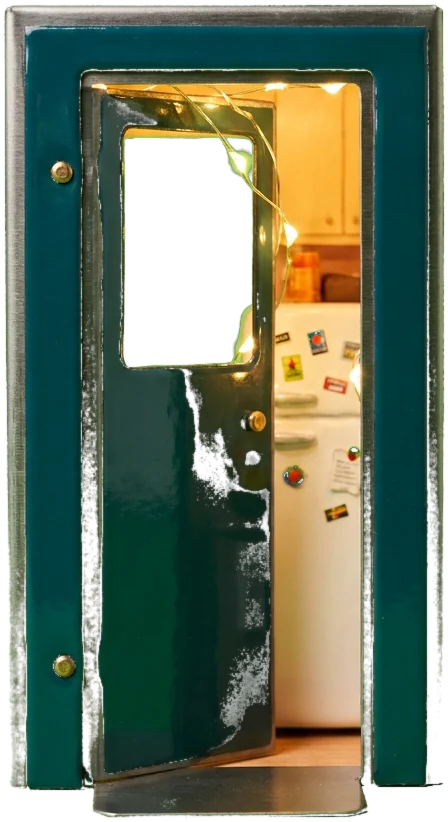
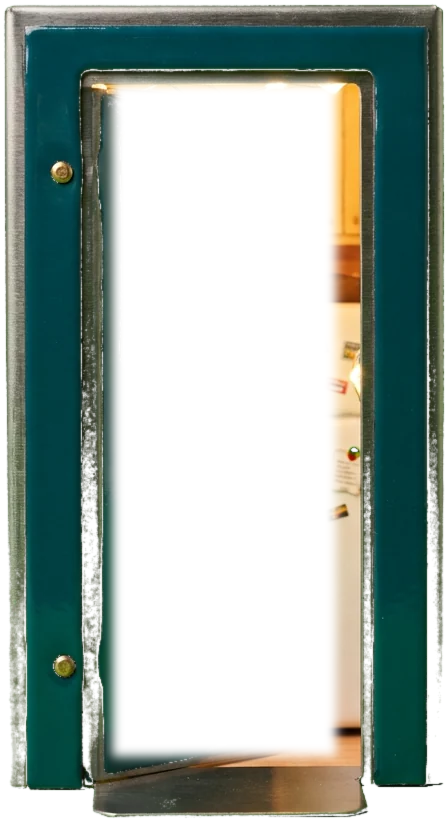
GET THE SHOT on his iPhone: the bezel hugs the glass instead of spanning the body, the brief plate measures itself so the LCD never spills onto the viewfinder, the print of the shot you are after is the real room painted from the camera that makes the brief (grid, eye, a pink line round them), spawn

diff --git a/play/game.js b/play/game.js
@@ -50,13 +50,13 @@ const ROOMS = {
       {k: 'f_bar',     x: 3.5,  z: 4.2, h: 2.0},
       {k: 'f_stool',   x: 3.3,  z: 3.95, h: .74},
       {k: 'f_stool',   x: 4.15, z: 3.95, h: .74},
-      {k: 'f_wedge',   x: -2.5, z: 4.0, h: .58},
-      {k: 'f_table',   x: 2.7,  z: 3.3, h: 1.12},
-      {k: 'f_arch',    x: -1.7, z: 2.2, h: 2.9, opening: [.2, .08, .8, .9]},
+      {k: 'f_wedge',   x: -3.0, z: 4.0, h: .58},
+      {k: 'f_table',   x: -4.2, z: 3.6, h: 1.12},
+      {k: 'f_arch',    x: -2.6, z: 2.2, h: 2.9, opening: [.2, .08, .8, .9]},
     ],
-    spots: {decks: {x: .25, z: 5.35}, floor: {x: .5, z: 4.3}, bar: {x: 2.4, z: 4.1}, arch: {x: -1.5, z: 3.4}, left: {x: -2.0, z: 4.5}},
+    spots: {decks: {x: .25, z: 5.35}, floor: {x: .5, z: 4.3}, bar: {x: 2.4, z: 4.1}, arch: {x: -2.6, z: 3.4}, left: {x: -1.7, z: 4.5}},
     // the rest of the roster hanging out in the room, cutouts like Mars, each with its own idle clock
-    extras: [{x: 2.3, z: 5.9, face: 1, h: 1.72, pair: 1}, {x: 3.1, z: 5.9, face: -1, h: 1.78, pair: 1}, {x: -2.2, z: 6.3, face: 1, h: 1.76}, {x: -1.0, z: 7.0, face: 1, h: 1.86}, {x: 1.4, z: 7.2, face: -1, h: 1.74}],
+    extras: [{x: 1.4, z: 6.0, face: 1, h: 1.72, pair: 1}, {x: 2.1, z: 6.0, face: -1, h: 1.78, pair: 1}, {x: -1.9, z: 6.3, face: 1, h: 1.76}, {x: -1.0, z: 7.0, face: 1, h: 1.86}, {x: -.2, z: 7.1, face: -1, h: 1.74}],
     lights: [{x: -3.0, y: 2.55, z: 5.55, col: '255,121,198', to: {x: -.6, z: 4.6}}, {x: -2.75, y: 2.55, z: 5.55, col: '255,190,90', to: {x: 1.2, z: 4.4}}],
     cam: {x: 0, y: 1.45, z: 0, zoom: 1},
   },
@@ -71,14 +71,14 @@ const ROOMS = {
       {k: 'c_amps',   x: -2.6, z: 5.9, h: 1.9},
       {k: 'c_lamp',   x: 3.1,  z: 5.6, h: 2.3},
       {k: 'c_couch',  x: 2.2,  z: 4.6, h: 1.3},
-      {k: 'c_keg',    x: -3.3, z: 4.0, h: .95},
-      {k: 'c_cups',   x: -4.0, z: 4.5, h: .82},
+      {k: 'c_keg',    x: -3.0, z: 4.1, h: .95},
+      {k: 'c_cups',   x: -1.6, z: 4.8, h: .82},
       {k: 'c_merch',  x: 3.2,  z: 3.5, h: 1.25},
-      {k: 'c_fan',    x: -3.0, z: 3.6, h: 1.1},
-      {k: 'c_door',   x: -2.4, z: 2.2, h: 2.9, opening: [.25, .1, .75, .92]},
+      {k: 'c_fan',    x: -3.6, z: 3.5, h: 1.1},
+      {k: 'c_door',   x: -3.6, z: 2.2, h: 2.9, opening: [.25, .1, .75, .92]},
     ],
-    spots: {decks: {x: -.3, z: 5.5}, floor: {x: .5, z: 4.3}, bar: {x: -2.5, z: 4.2}, arch: {x: -2.1, z: 3.4}, left: {x: -1.8, z: 4.7}},
-    extras: [{x: -3.1, z: 5.4, face: 1, h: 1.74, pair: 1}, {x: -2.3, z: 5.4, face: -1, h: 1.78, pair: 1}, {x: 3.3, z: 6.2, face: -1, h: 1.72}, {x: 1.5, z: 6.9, face: -1, h: 1.76}, {x: -1.2, z: 7.1, face: 1, h: 1.7}],
+    spots: {decks: {x: -.3, z: 5.5}, floor: {x: .5, z: 4.3}, bar: {x: -2.3, z: 4.2}, arch: {x: -3.6, z: 3.4}, left: {x: -1.8, z: 4.7}},
+    extras: [{x: -3.3, z: 5.6, face: 1, h: 1.74, pair: 1}, {x: -2.5, z: 5.6, face: -1, h: 1.78, pair: 1}, {x: 1.6, z: 6.4, face: -1, h: 1.72}, {x: .9, z: 7.0, face: -1, h: 1.76}, {x: -1.6, z: 7.1, face: 1, h: 1.7}],
     lights: [{x: -2.5, y: 2.6, z: 5.85, col: '150,255,120', to: {x: -.4, z: 5.0}}, {x: 3.0, y: 2.5, z: 5.55, col: '255,190,90', to: {x: 1.5, z: 4.4}}],
     cam: {x: 0, y: 1.45, z: 0, zoom: 1},
   },
@@ -91,19 +91,18 @@ const ROOMS = {
     flats: [
       {k: 'l_pole',     x: -2.6, z: 7.2, h: 4.2},
       {k: 'l_truck',    x: 3.4,  z: 6.8, h: 2.3},
-      {k: 'l_fence',    x: -3.6, z: 5.6, h: 2.3},
+      {k: 'l_fence',    x: -3.3, z: 3.4, h: 2.3, see: true, opening: [.08, .08, .92, .96]},
       {k: 'l_car',      x: .4,   z: 5.3, h: 1.5},
-      {k: 'l_dumpster', x: -2.2, z: 4.2, h: 1.4},
-      {k: 'l_cone',     x: -2.7, z: 3.5, h: .55},
-      {k: 'l_cone',     x: -3.4, z: 3.9, h: .55},
-      {k: 'l_cone',     x: -3.9, z: 3.2, h: .55},
-      {k: 'l_chair',    x: 3.9,  z: 4.6, h: .86},
-      {k: 'l_chair',    x: 4.8,  z: 4.3, h: .86},
-      {k: 'l_cooler',   x: 4.35, z: 4.95, h: .5},
-      {k: 'l_cart',     x: 4.2,  z: 3.0, h: 1.3},
+      {k: 'l_dumpster', x: -2.3, z: 4.3, h: 1.4},
+      {k: 'l_cone',     x: 3.3,  z: 3.3, h: .55},
+      {k: 'l_cone',     x: 5.1,  z: 3.2, h: .55},
+      {k: 'l_chair',    x: 3.8,  z: 4.5, h: .86},
+      {k: 'l_chair',    x: 4.5,  z: 5.0, h: .86},
+      {k: 'l_cooler',   x: 4.15, z: 5.3, h: .5},
+      {k: 'l_cart',     x: 6.0,  z: 3.0, h: 1.3},
     ],
-    spots: {decks: {x: 1.6, z: 4.5}, floor: {x: -.7, z: 4.4}, bar: {x: 2.4, z: 5.5}, arch: {x: -3.0, z: 4.6}, left: {x: -1.4, z: 4.8}},
-    extras: [{x: -3.3, z: 5.1, face: 1, h: 1.78, pair: 1}, {x: -2.5, z: 5.1, face: -1, h: 1.74, pair: 1}, {x: 3.7, z: 5.9, face: -1, h: 1.8}, {x: -0.5, z: 7.0, face: 1, h: 1.76}, {x: 1.9, z: 7.4, face: -1, h: 1.86}],
+    spots: {decks: {x: 1.6, z: 4.5}, floor: {x: -.7, z: 4.4}, bar: {x: 2.4, z: 5.5}, arch: {x: -3.3, z: 5.0}, left: {x: -1.0, z: 5.0}},
+    extras: [{x: -1.6, z: 6.3, face: 1, h: 1.78, pair: 1}, {x: -.8, z: 6.3, face: -1, h: 1.74, pair: 1}, {x: 3.2, z: 5.9, face: -1, h: 1.8}, {x: -2.6, z: 7.0, face: 1, h: 1.76}, {x: .6, z: 7.5, face: -1, h: 1.86}],
     lights: [{x: -2.55, y: 4.0, z: 7.15, col: '255,150,40', to: {x: -1.2, z: 5.0}}, {x: 2.6, y: 1.9, z: 6.5, col: '255,210,120', to: {x: 2.2, z: 5.2}}],
     cam: {x: 0, y: 1.45, z: 0, zoom: 1},
   },
@@ -183,11 +182,12 @@ function resize() {
   const door = G.state === 'title' || G.state === 'done';
   // in the shoot the print and the three lamps live UNDER the glass, so the bottom reserve holds them plus the dials; a short phone trims the print row
   const short = H < 700; document.documentElement.classList.toggle('short', short);
-  const top = sat + (inShot ? 66 : door ? 56 : 24), bottom = inShot ? sab + (short ? 300 : 346) : door ? 330 : 24;
+  const plate = $('.plate'); const ph = inShot && plate ? plate.offsetHeight : 0;
+  const top = inShot ? (ph || sat + 66) + 8 : door ? sat + 56 : sat + 24, bottom = inShot ? sab + (short ? 266 : H < 900 ? 288 : 318) : door ? 330 : 24;
   let fw = W - (inShot ? 12 : 24), fh = fw * 1.25; const maxH = H - top - bottom; if (fh > maxH) { fh = maxH; fw = fh / 1.25; } if (door && fh < 220) { fh = 220; fw = fh / 1.25; }
   G.frame = {x: (W - fw) / 2, y: inShot || door ? top : top + (maxH - fh) / 2, w: fw, h: fh};
   const vfb = $('#vfb'); if (vfb) vfb.hidden = !door;
-  document.documentElement.style.setProperty('--fb', (G.frame.y + G.frame.h) + 'px'); document.documentElement.style.setProperty('--ft', G.frame.y + 'px');
+  document.documentElement.style.setProperty('--fb', (G.frame.y + G.frame.h) + 'px'); document.documentElement.style.setProperty('--ft', G.frame.y + 'px'); document.documentElement.style.setProperty('--fl', G.frame.x + 'px'); document.documentElement.style.setProperty('--fw', G.frame.w + 'px');
 }
 addEventListener('resize', resize); resize();
 
@@ -221,6 +221,8 @@ function extraRect(ex, i, now) {
   const oc = G.crowd[i]; if (!oc) return null;
   // never between the camera and the subject: closer than them and lined up with them on screen
   if (ex.z < G.subj.z + .3 && Math.abs(ex.x - G.subj.x) < 1.6) return null;
+  // nobody stands behind a tall flat (a see-through one, like the fence, is fine)
+  if (ROOMS[G.room].flats.some(fl => !fl.hang && !fl.see && fl.h > .9 && fl.z < ex.z - .3 && Math.abs(fl.x - ex.x) < halfW(fl) + .25)) return null;
   if (ex.z < G.subj.z - .2) { const sp = proj(G.subj.x, 0, G.subj.z), ep = proj(ex.x, 0, ex.z); if (sp && ep && Math.abs(sp.x - ep.x) < G.frame.w * .4) return null; } const t = now / 1000; const pose = extraPose(ex, i, oc, t); const im = ART[oc + '_' + pose]; if (!im) return null;
   const w = ex.h * im.width / im.height; const p = proj(ex.x, Math.sin(t * 1.3) * .012, ex.z); if (!p) return null;
   const hpx = ex.h * p.s, wpx = w * p.s; return {x: p.x - wpx / 2, y: p.y - hpx, w: wpx, h: hpx, cx: p.x, cy: p.y - hpx / 2, d: p.d, im, face: ex.face * NAT[pose]};
@@ -247,30 +249,23 @@ function measure() {
 
 /* ---------- draw ---------- */
 let lastT = 0, SPARK = [];
-function draw(now) {
-  requestAnimationFrame(draw);
-  const dt = Math.min(.05, (now - lastT) / 1000 || 0); lastT = now; G.frames++;
-  if (now - G.lastQ > 1000) { G.fps = G.frames; G.frames = 0; G.lastQ = now; if (G.fps < 24 && G.quality > 0) G.quality--; }
-  if (!ARTREADY) return;
-  tick(dt);
-  const f = G.frame, room = ROOMS[G.room];
-  cx.save(); cx.fillStyle = '#07060a'; cx.fillRect(0, 0, W, H);
-  cx.beginPath(); cx.rect(f.x, f.y, f.w, f.h); cx.clip();
+/* the room, painted through whatever G.frame / G.cam / G.focusD say: the viewfinder, and the hint print from the answer camera */
+function paintRoom(c, f, room, now) {
   // the backdrop: a painted wall far back, mirrored copies either side so a truck never shows the edge
   const bd = ART[room.backdrop]; const bp = proj(0, 0, room.bz);
   if (bd && bp) {
     const bh = room.bh * bp.s, bw = bh * bd.width / bd.height, bx = bp.x - bw / 2, by = bp.y - bh;
-    cx.drawImage(bd, bx, by, bw, bh);
-    cx.save(); cx.translate(bx, 0); cx.scale(-1, 1); cx.drawImage(bd, 0, by, bw, bh); cx.restore();
-    cx.save(); cx.translate(bx + 2 * bw, 0); cx.scale(-1, 1); cx.drawImage(bd, 0, by, bw, bh); cx.restore();
+    c.drawImage(bd, bx, by, bw, bh);
+    c.save(); c.translate(bx, 0); c.scale(-1, 1); c.drawImage(bd, 0, by, bw, bh); c.restore();
+    c.save(); c.translate(bx + 2 * bw, 0); c.scale(-1, 1); c.drawImage(bd, 0, by, bw, bh); c.restore();
     // the mirror ball's dots drift over the back wall (the booth only)
-    if (room.ball) { cx.save(); cx.globalCompositeOperation = 'screen'; const t = now / 1000;
-    for (let i = 0; i < 30; i++) { const a = i * 2.399 + t * .22; const x = bp.x + Math.cos(a) * bw * .42 * (.3 + (i % 5) / 5), y = by + bh * (.2 + .45 * (.5 + .5 * Math.sin(a * 1.31 + i))); const k = Math.max(2, bp.s * .05); cx.fillStyle = `rgba(255,170,215,${.22 + .2 * Math.sin(t * 3 + i)})`; cx.fillRect(x, y, k, k); }
-    cx.restore(); }
+    if (room.ball) { c.save(); c.globalCompositeOperation = 'screen'; const t = now / 1000;
+    for (let i = 0; i < 30; i++) { const a = i * 2.399 + t * .22; const x = bp.x + Math.cos(a) * bw * .42 * (.3 + (i % 5) / 5), y = by + bh * (.2 + .45 * (.5 + .5 * Math.sin(a * 1.31 + i))); const k = Math.max(2, bp.s * .05); c.fillStyle = `rgba(255,170,215,${.22 + .2 * Math.sin(t * 3 + i)})`; c.fillRect(x, y, k, k); }
+    c.restore(); }
   }
   drawFloor(room);
   // haze between the wall and the room
-  cx.fillStyle = `rgba(${room.haze},${.10 + .04 * Math.sin(now / 1700)})`; cx.fillRect(f.x, f.y, f.w, f.h);
+  c.fillStyle = `rgba(${room.haze},${.10 + .04 * Math.sin(now / 1700)})`; c.fillRect(f.x, f.y, f.w, f.h);
   // everything standing in the room, far to near, with the subject slotted in by depth
   const sr = subjRect(); const items = room.flats.map(fl => ({fl, r: flatRect(fl)})).filter(i => i.r);
   if (sr) items.push({subj: true, r: sr});
@@ -279,22 +274,33 @@ function draw(now) {
   let hazeDone = false;
   items.forEach(it => {
     const r = it.r; if (r.x > f.x + f.w + 40 || r.x + r.w < f.x - 40 || r.y > f.y + f.h + 40) return;
-    if (!hazeDone && r.d < 4.6) { hazeDone = true; cx.fillStyle = `rgba(${room.haze},.045)`; cx.fillRect(f.x, f.y, f.w, f.h); }
+    if (!hazeDone && r.d < 4.6) { hazeDone = true; c.fillStyle = `rgba(${room.haze},.045)`; c.fillRect(f.x, f.y, f.w, f.h); }
     const b = blurFor(r.d), blurOn = HAS_FILTER && G.quality > 0 && b > .4;
     // the floor shadow at the foot
-    if (!(it.fl && it.fl.hang)) { const fy = r.y + r.h - 1; cx.save(); cx.translate(r.cx, fy); cx.scale(1, .22); const g = cx.createRadialGradient(0, 0, 0, 0, 0, r.w * .62); g.addColorStop(0, 'rgba(0,0,0,.4)'); g.addColorStop(1, 'rgba(0,0,0,0)'); cx.fillStyle = g; cx.beginPath(); cx.arc(0, 0, r.w * .62, 0, 7); cx.fill(); cx.restore(); }
-    cx.save();
-    if (blurOn) cx.filter = `blur(${b.toFixed(1)}px)`;
+    if (!(it.fl && it.fl.hang)) { const fy = r.y + r.h - 1; c.save(); c.translate(r.cx, fy); c.scale(1, .22); const g = c.createRadialGradient(0, 0, 0, 0, 0, r.w * .62); g.addColorStop(0, 'rgba(0,0,0,.4)'); g.addColorStop(1, 'rgba(0,0,0,0)'); c.fillStyle = g; c.beginPath(); c.arc(0, 0, r.w * .62, 0, 7); c.fill(); c.restore(); }
+    c.save();
+    if (blurOn) c.filter = `blur(${b.toFixed(1)}px)`;
     // the cut edge throws a soft shadow on whatever stands behind it
-    if (G.quality > 1) { cx.shadowColor = 'rgba(0,0,0,.55)'; cx.shadowBlur = 10 + 8 / Math.max(.5, r.d / 3); cx.shadowOffsetX = 5; cx.shadowOffsetY = 7; }
-    if (it.subj) { cx.translate(r.cx, r.y); cx.scale(it.face || (G.subj.face * NAT[G.subj.pose]), 1); cx.drawImage(r.im, -r.w / 2, 0, r.w, r.h); }
-    else cx.drawImage(r.im, r.x, r.y, r.w, r.h);
-    cx.restore();
+    if (G.quality > 1) { c.shadowColor = 'rgba(0,0,0,.55)'; c.shadowBlur = 10 + 8 / Math.max(.5, r.d / 3); c.shadowOffsetX = 5; c.shadowOffsetY = 7; }
+    if (it.subj) { c.translate(r.cx, r.y); c.scale(it.face || (G.subj.face * NAT[G.subj.pose]), 1); c.drawImage(r.im, -r.w / 2, 0, r.w, r.h); }
+    else c.drawImage(r.im, r.x, r.y, r.w, r.h);
+    c.restore();
   });
   // the gels: two cones of colored light from the light tree, screened over everything
-  room.lights.forEach(L => { const a = proj(L.x, L.y, L.z), b = proj(L.to.x, 0, L.to.z); if (!a || !b) return; cx.save(); cx.globalCompositeOperation = 'screen'; const g = cx.createLinearGradient(a.x, a.y, b.x, b.y); g.addColorStop(0, `rgba(${L.col},.30)`); g.addColorStop(1, `rgba(${L.col},0)`); cx.fillStyle = g; const spread = 1.1 * b.s; cx.beginPath(); cx.moveTo(a.x, a.y); cx.lineTo(b.x - spread, b.y + 6); cx.lineTo(b.x + spread, b.y + 6); cx.closePath(); cx.fill(); cx.restore(); });
+  room.lights.forEach(L => { const a = proj(L.x, L.y, L.z), b = proj(L.to.x, 0, L.to.z); if (!a || !b) return; c.save(); c.globalCompositeOperation = 'screen'; const g = c.createLinearGradient(a.x, a.y, b.x, b.y); g.addColorStop(0, `rgba(${L.col},.30)`); g.addColorStop(1, `rgba(${L.col},0)`); c.fillStyle = g; const spread = 1.1 * b.s; c.beginPath(); c.moveTo(a.x, a.y); c.lineTo(b.x - spread, b.y + 6); c.lineTo(b.x + spread, b.y + 6); c.closePath(); c.fill(); c.restore(); });
   // the vignette
-  const vg = cx.createRadialGradient(f.x + f.w / 2, f.y + f.h / 2, f.h * .35, f.x + f.w / 2, f.y + f.h / 2, f.h * .9); vg.addColorStop(0, 'rgba(0,0,0,0)'); vg.addColorStop(1, 'rgba(0,0,0,.42)'); cx.fillStyle = vg; cx.fillRect(f.x, f.y, f.w, f.h);
+  const vg = c.createRadialGradient(f.x + f.w / 2, f.y + f.h / 2, f.h * .35, f.x + f.w / 2, f.y + f.h / 2, f.h * .9); vg.addColorStop(0, 'rgba(0,0,0,0)'); vg.addColorStop(1, 'rgba(0,0,0,.42)'); c.fillStyle = vg; c.fillRect(f.x, f.y, f.w, f.h);
+}
+function draw(now) {
+  requestAnimationFrame(draw);
+  const dt = Math.min(.05, (now - lastT) / 1000 || 0); lastT = now; G.frames++;
+  if (now - G.lastQ > 1000) { G.fps = G.frames; G.frames = 0; G.lastQ = now; if (G.fps < 24 && G.quality > 0) G.quality--; }
+  if (!ARTREADY) return;
+  tick(dt);
+  const f = G.frame, room = ROOMS[G.room];
+  cx.fillStyle = '#07060a'; cx.fillRect(0, 0, W, H);
+  cx.save(); cx.beginPath(); cx.rect(f.x, f.y, f.w, f.h); cx.clip();
+  paintRoom(cx, f, room, now);
   // the flash sparkle when the shutter went
   SPARK = SPARK.filter(s => (s.t += dt) < s.life); SPARK.forEach(s => { cx.fillStyle = `rgba(255,255,255,${1 - s.t / s.life})`; const k = 2 + 6 * s.t / s.life; cx.fillRect(s.x - k / 2, s.y - k / 2, k, k); });
   cx.restore();
@@ -351,7 +357,7 @@ cv.addEventListener('pointerdown', e => { if (G.state !== 'shoot') return; ptr =
 cv.addEventListener('pointermove', e => {
   if (!ptr || G.state !== 'shoot') return; const dx = e.clientX - ptr.x, dy = e.clientY - ptr.y; if (Math.hypot(dx, dy) > 6) moved = true;
   const F = focal(); const d = Math.max(1.2, G.subj.z - G.cam.z); // a drag moves the world under the thumb at the subject's depth
-  G.want.x = clamp(ptr.cx - dx * d / F, -2.6, 2.6); G.want.y = clamp(ptr.cy + dy * d / F, .3, 3.0);
+  G.want.x = clamp(ptr.cx - dx * d / F, -4.2, 4.2); G.want.y = clamp(ptr.cy + dy * d / F, .3, 3.0);
 });
 const ptrEnd = e => { if (ptr && !moved && G.state === 'shoot') focusAt(e.clientX, e.clientY); ptr = null; }; cv.addEventListener('pointerup', ptrEnd); cv.addEventListener('pointercancel', () => { ptr = null; });
 function focusAt(x, y) {
@@ -409,12 +415,25 @@ function develop(shot, passed) {
 }
 
 /* ---------- briefs ---------- */
+// slide the subject sideways until no flat nearer than them covers them (the doorway flat is the one exception, for the doorway brief)
+function halfW(fl) { const im = ART[fl.k]; return im ? fl.h * im.width / im.height / 2 : .5; }
+function clearSpawn(room, k) {
+  // the doorway flat (doorway brief) and the decks (the DJ stands behind them on purpose) are the two exceptions
+  const S = G.subj, br = BRIEFS[k]; const near = room.flats.filter(fl => !fl.hang && !fl.see && fl.z < S.z - .05 && !(k === 'arch' && fl.k === room.roles.frame) && !(br && br.spot === 'decks' && fl.k === room.roles.decks));
+  for (let pass = 0; pass < 3; pass++) {
+    const hit = near.find(fl => Math.abs(fl.x - S.x) < halfW(fl) + .5); if (!hit) return;
+    const right = hit.x + halfW(hit) + .5, left = hit.x - halfW(hit) - .5;
+    S.x = (Math.abs(right - S.x) <= Math.abs(left - S.x) ? right : left);
+    S.x = clamp(S.x, -4.2, 4.2);
+  }
+}
 function setBrief(k) {
   G.brief = k; G.briefT = performance.now(); const br = BRIEFS[k], room = ROOMS[G.room], r = G.rnd;
   // a different subject each brief: the roster shuffled into a queue, the other seven fill the room
   if (!G.castQ.length) { G.castQ = CAST.slice(); for (let i = G.castQ.length - 1; i > 0; i--) { const j = Math.floor(r() * (i + 1)); [G.castQ[i], G.castQ[j]] = [G.castQ[j], G.castQ[i]]; } }
   const oc = G.castQ.shift(); G.crowd = CAST.filter(x => x !== oc);
   const sp = room.spots[br.spot]; Object.assign(G.subj, {oc, x: sp.x + (r() - .5) * .3, z: sp.z, face: br.face || (r() < .5 ? 1 : -1), pose: 'idle', jumpT: -1.2, jump: 0, t: 0});
+  clearSpawn(room, k);
   // the camera opens a step to the side of them, on the side away from the doorway flat so the first look is clear
   // open on the clear side: every room's shoot-through flat stands on the left, so the camera starts to the right of them unless they are already far right
   const side = G.subj.x > 2 ? -1 : 1;
@@ -437,23 +456,35 @@ function drawAvatar(oc) { // the subject's head in the brief chip
   const c = $('#b-av'), o = c.getContext('2d'), im = ART[oc + '_idle']; o.clearRect(0, 0, 88, 88); if (!im) return; const hx = HEADX[oc + '_idle'] || .5;
   const side = im.height * .3; const sx = clamp(im.width * hx - side / 2, 0, Math.max(0, im.width - side)); o.fillStyle = '#1a1921'; o.fillRect(0, 0, 88, 88); o.drawImage(im, sx, 0, side, side, 0, 0, 88, 88);
 }
+// where the camera would stand to make the brief: the print is the room seen from there
+function answerCam(br) {
+  const S = G.subj, room = ROOMS[G.room], h = br.hint, f = G.frame;
+  const pos = br.face === 0 ? (S.face > 0 ? 'l' : 'r') : h.pos;
+  const cam = {x: 0, y: h.low ? .55 : 1.45, z: (h.sil === 'wide' || G.brief === 'arch') ? -1.2 : 0, zoom: h.long ? 2.4 : h.ballTop ? .95 : ({wide: .85, mid: 1.25, tight: 2.3}[h.sil] || 1.2)};
+  const F = f.h * 1.1 * cam.zoom, d = S.z - cam.z;
+  const tx = f.x + f.w * (pos === 'l' ? 1 / 3 : pos === 'r' ? 2 / 3 : .5);
+  cam.x = (S.x + S.face * .08) - (tx - (f.x + f.w / 2)) * d / F;
+  if (G.brief === 'arch') { const af = room.flats.find(x => x.k === room.roles.frame); if (af) cam.x = af.x; }
+  if (!h.low) { const ty = f.y + f.h * (h.sil === 'tight' ? .3 : h.sil === 'wide' ? .45 : h.ballTop ? .62 : 1 / 3); const ey = 1.66 + (h.jump ? .6 : 0); cam.y = clamp(ey + (ty - (f.y + f.h / 2)) * d / F, .5, 2.6); }
+  return cam;
+}
 function drawHint(br) {
-  // a tiny photo of the shot you are after: the real backdrop, the real flats for the parts named, the subject's own cutout
-  const c = $('#hint canvas'), h = br.hint; const w = c.width = 240, hh = c.height = 300; const o = c.getContext('2d'); const room = ROOMS[G.room];
-  const bd = ART[room.backdrop]; if (bd) { const bw = hh * bd.width / bd.height * .9, bh = hh * .9; o.drawImage(bd, w / 2 - bw / 2, -hh * .1, bw, bh); } else { o.fillStyle = '#1a1921'; o.fillRect(0, 0, w, hh); }
-  const fg = o.createLinearGradient(0, hh * .55, 0, hh); fg.addColorStop(0, room.floor[0]); fg.addColorStop(1, room.floor[2]); o.fillStyle = fg; o.fillRect(0, hh * .62, w, hh * .38);
-  o.fillStyle = `rgba(${room.haze},.18)`; o.fillRect(0, 0, w, hh);
-  // the parts the brief names, as their own flats
-  const pb = {decks: [w * .5, hh * .9, .32], top: [w * .5, hh * .26, .26], big: [w * .86, hh * .85, .38], lights: [w * .14, hh * .82, .5], bar: [w * .2, hh * .88, .42], frame: [w * .5, hh * 1.02, 1.08]};
-  (h.props || []).forEach(p => { const fl = ART[room.roles[p]], b = pb[p]; if (!fl || !b) return; const fh = hh * b[2], fw = fh * fl.width / fl.height; o.save(); o.shadowColor = 'rgba(0,0,0,.5)'; o.shadowBlur = 8; o.shadowOffsetY = 4; if (p === 'top') o.drawImage(fl, b[0] - fw / 2, b[1] - fh * .5, fw, fh); else o.drawImage(fl, b[0] - fw / 2, b[1] - fh, fw, fh); o.restore(); });
-  // the subject, their own cutout, glowing pink where the brief wants them
-  const size = {wide: .3, mid: .62, tight: 1.1}[h.sil]; const ph = hh * size; const px = {l: w * .34, c: w * .5, r: w * .66}[h.pos]; let py = hh * .92 - ph + (h.sil === 'tight' ? ph * .32 : 0); if (h.ballTop) py = hh * .5 - ph * .25; if (h.jump) py -= hh * .14;
-  const im = ART[G.subj.oc + '_idle']; if (im) { const pw = ph * im.width / im.height; o.save(); o.shadowColor = '#ff79c6'; o.shadowBlur = 16; o.translate(px, py); if (h.pos === 'l') o.scale(-1, 1); o.drawImage(im, -pw / 2, 0, pw, ph); o.restore(); }
-  if (h.grid) { o.strokeStyle = 'rgba(255,212,121,.55)'; o.lineWidth = 1; for (let i = 1; i < 3; i++) { o.beginPath(); o.moveTo(w * i / 3, 0); o.lineTo(w * i / 3, hh); o.stroke(); o.beginPath(); o.moveTo(0, hh * i / 3); o.lineTo(w, hh * i / 3); o.stroke(); } const key = G.subj.oc + '_idle'; const hx = HEADX[key] || .5; if (im) { const pw = ph * im.width / im.height; const ex = px + (h.pos === 'l' ? -(hx - .5) : (hx - .5)) * pw, ey = py + ph * .1; o.fillStyle = '#ffd479'; o.beginPath(); o.arc(ex, ey, 5, 0, 7); o.fill(); o.strokeStyle = '#ffd479'; o.lineWidth = 2; o.beginPath(); o.arc(ex, ey, 10, 0, 7); o.stroke(); } }
-  if (h.pos === 'l' && !h.low) { o.strokeStyle = '#ffd479'; o.lineWidth = 3; o.beginPath(); o.moveTo(w * .55, hh * .42); o.lineTo(w * .9, hh * .42); o.lineTo(w * .82, hh * .36); o.moveTo(w * .9, hh * .42); o.lineTo(w * .82, hh * .48); o.stroke(); }
-  const note = h.low ? 'CAMERA LOW, SHOOT UP' : h.long ? 'ZOOM PAST 50MM' : h.jump ? 'SHOOT THE TOP OF THE JUMP' : h.pos === 'l' ? 'ROOM ON THE SIDE THEY FACE' : h.sil === 'wide' ? 'PULL BACK, THEM SMALL' : h.sil === 'tight' ? 'WALK IN, FILL THE FRAME' : h.ballTop ? (room.words.top + ' UP TOP').toUpperCase() : (h.props && h.props[0] ? ('WITH ' + room.words[h.props[0]]).toUpperCase() : 'EYES ON A THIRD');
-  o.fillStyle = 'rgba(10,10,13,.82)'; o.fillRect(0, hh - 26, w, 26); o.fillStyle = '#ffd479'; o.font = '700 11px JetBrains Mono, monospace'; o.textAlign = 'center'; o.fillText(note, w / 2, hh - 9);
+  // the real room, the real flats, the real subject, from the camera that makes the brief; then the grid, the eye and a pink line round them
+  const c = $('#hint canvas'), h = br.hint; const w = c.width = 300, hh = c.height = 375; const o = c.getContext('2d'); const room = ROOMS[G.room];
+  const keep = {frame: G.frame, cam: G.cam, par: G.par, focusD: G.focusD, quality: G.quality}; const S = G.subj, kj = S.jump, kp = S.pose;
+  G.frame = {x: 0, y: 0, w, h: hh}; G.par = {x: 0, y: 0}; G.quality = 1;
+  if (h.jump) { S.jump = .5; S.pose = ART[S.oc + '_peak'] ? 'peak' : 'idle'; }
+  G.cam = answerCam(br); G.focusD = S.z - G.cam.z;
+  o.save(); o.beginPath(); o.rect(0, 0, w, hh); o.clip(); try { paintRoom(o, G.frame, room, performance.now()); } catch (e) {} o.restore();
+  const sr = subjRect();
+  if (h.grid) { o.strokeStyle = 'rgba(255,212,121,.55)'; o.lineWidth = 1; for (let i = 1; i < 3; i++) { o.beginPath(); o.moveTo(w * i / 3, 0); o.lineTo(w * i / 3, hh); o.stroke(); o.beginPath(); o.moveTo(0, hh * i / 3); o.lineTo(w, hh * i / 3); o.stroke(); } }
+  if (sr) { o.save(); o.strokeStyle = '#ff79c6'; o.lineWidth = 3; o.shadowColor = '#ff79c6'; o.shadowBlur = 12; o.beginPath(); if (o.roundRect) o.roundRect(sr.x - 6, sr.y - 6, sr.w + 12, sr.h + 12, 8); else o.rect(sr.x - 6, sr.y - 6, sr.w + 12, sr.h + 12); o.stroke(); o.restore();
+    if (h.grid) { o.fillStyle = '#ffd479'; o.beginPath(); o.arc(sr.eye.x, sr.eye.y, 5, 0, 7); o.fill(); o.strokeStyle = '#ffd479'; o.lineWidth = 2; o.beginPath(); o.arc(sr.eye.x, sr.eye.y, 11, 0, 7); o.stroke(); }
+    if (br.face === 0) { const dir = S.face > 0 ? 1 : -1; const ax = sr.cx + dir * (sr.w / 2 + 14), ay = sr.y + sr.h * .3; o.strokeStyle = '#ffd479'; o.lineWidth = 3; o.beginPath(); o.moveTo(ax, ay); o.lineTo(ax + dir * 70, ay); o.lineTo(ax + dir * 56, ay - 12); o.moveTo(ax + dir * 70, ay); o.lineTo(ax + dir * 56, ay + 12); o.stroke(); } }
+  const note = h.low ? 'CAMERA LOW, SHOOT UP' : h.long ? 'ZOOM PAST 50MM' : h.jump ? 'SHOOT THE TOP OF THE JUMP' : br.face === 0 ? 'ROOM ON THE SIDE THEY FACE' : h.sil === 'wide' ? 'PULL BACK, THEM SMALL' : h.sil === 'tight' ? 'WALK IN, FILL THE FRAME' : h.ballTop ? (room.words.top + ' UP TOP').toUpperCase() : (h.props && h.props[0] ? ('WITH ' + room.words[h.props[0]]).toUpperCase() : 'EYES ON A THIRD');
+  o.fillStyle = 'rgba(10,10,13,.82)'; o.fillRect(0, hh - 30, w, 30); o.fillStyle = '#ffd479'; o.font = '700 13px JetBrains Mono, monospace'; o.textAlign = 'center'; o.fillText(note, w / 2, hh - 10);
   o.strokeStyle = 'rgba(255,255,255,.5)'; o.lineWidth = 2; o.strokeRect(1, 1, w - 2, hh - 2);
+  Object.assign(G, keep); S.jump = kj; S.pose = kp;
 }
 function drawHintOld(br) {
   const c = $('#hint canvas'), h = br.hint; const w = c.width = 120, hh = c.height = 150; const o = c.getContext('2d');

diff --git a/play/index.html b/play/index.html
@@ -51,15 +51,15 @@ a{color:var(--pink)}
   radial-gradient(140% 60% at var(--lx) -10%,rgba(255,255,255,.10),rgba(255,255,255,0) 60%),
   radial-gradient(rgba(255,255,255,.035) 1px,transparent 1.2px) 0 0/4px 4px,
   linear-gradient(180deg,var(--body-2),var(--body) 30%,#141218 100%);
-  -webkit-mask:linear-gradient(#000 0 0) 0 0/100% calc(var(--ft,120px) - 8px) no-repeat,linear-gradient(#000 0 0) 0 100%/100% calc(100% - var(--fb,60vh) - 8px) no-repeat,linear-gradient(#000 0 0) 0 var(--ft,120px)/6px 100% no-repeat,linear-gradient(#000 0 0) 100% var(--ft,120px)/6px 100% no-repeat;
-  mask:linear-gradient(#000 0 0) 0 0/100% calc(var(--ft,120px) - 8px) no-repeat,linear-gradient(#000 0 0) 0 100%/100% calc(100% - var(--fb,60vh) - 8px) no-repeat,linear-gradient(#000 0 0) 0 var(--ft,120px)/6px 100% no-repeat,linear-gradient(#000 0 0) 100% var(--ft,120px)/6px 100% no-repeat}
-#bezel{position:absolute;left:0;right:0;top:calc(var(--ft,120px) - 8px);height:calc(var(--fb,60vh) - var(--ft,120px) + 16px);pointer-events:none;border-radius:8px;
+  -webkit-mask:linear-gradient(#000 0 0) 0 0/100% calc(var(--ft,120px) - 8px) no-repeat,linear-gradient(#000 0 0) 0 100%/100% calc(100% - var(--fb,60vh) - 8px) no-repeat,linear-gradient(#000 0 0) 0 var(--ft,120px)/calc(var(--fl,12px) - 6px) 100% no-repeat,linear-gradient(#000 0 0) 100% var(--ft,120px)/calc(100% - var(--fl,12px) - var(--fw,100%) - 6px) 100% no-repeat;
+  mask:linear-gradient(#000 0 0) 0 0/100% calc(var(--ft,120px) - 8px) no-repeat,linear-gradient(#000 0 0) 0 100%/100% calc(100% - var(--fb,60vh) - 8px) no-repeat,linear-gradient(#000 0 0) 0 var(--ft,120px)/calc(var(--fl,12px) - 6px) 100% no-repeat,linear-gradient(#000 0 0) 100% var(--ft,120px)/calc(100% - var(--fl,12px) - var(--fw,100%) - 6px) 100% no-repeat}
+#bezel{position:absolute;left:calc(var(--fl,12px) - 8px);width:calc(var(--fw,100%) + 16px);top:calc(var(--ft,120px) - 8px);height:calc(var(--fb,60vh) - var(--ft,120px) + 16px);pointer-events:none;border-radius:8px;
   box-shadow:inset 0 0 0 4px #0b0a0e,inset 0 0 0 6px #3b3844,inset 0 0 0 7px #121117,0 0 0 1px rgba(255,255,255,.08)}
 #bezel::before{content:"";position:absolute;left:8px;right:8px;top:8px;bottom:8px;box-shadow:inset 0 2px 10px rgba(0,0,0,.9);border-radius:3px}
 #bezel::after{content:"";position:absolute;left:10px;top:10px;right:10px;height:18px;background:linear-gradient(180deg,rgba(255,255,255,.06),transparent)}
 
 /* the top plate: brushed metal, the lens-cap chip, the LCD with the brief */
-.plate{position:absolute;left:0;right:0;top:0;height:calc(var(--ft,120px) - 10px);padding:calc(var(--sat) + 8px) 12px 0;display:grid;grid-template-columns:46px minmax(0,1fr);gap:0 10px;align-items:start;
+.plate{position:absolute;left:0;right:0;top:0;padding:calc(var(--sat) + 8px) 12px 10px;display:grid;grid-template-columns:46px minmax(0,1fr);gap:0 10px;align-items:start;
   background:repeating-linear-gradient(180deg,rgba(255,255,255,.035) 0 1px,transparent 1px 3px),linear-gradient(180deg,#4a4654,#2d2a35 60%,#221f28);box-shadow:0 2px 0 #0b0a0e,0 3px 0 rgba(255,255,255,.08),0 6px 14px rgba(0,0,0,.5)}
 .plate canvas{width:46px;height:46px;border-radius:50%;border:3px solid #55505f;background:#0d0c11;box-shadow:inset 0 2px 6px rgba(0,0,0,.8),0 1px 0 rgba(255,255,255,.15),0 0 14px rgba(255,121,198,.35);margin-top:2px}
 .lcd{position:relative;min-height:56px;padding:6px 10px 6px;border-radius:4px;background:linear-gradient(180deg,#0a150e,var(--lcd));box-shadow:inset 0 0 0 1px #000,inset 0 2px 8px rgba(0,0,0,.8),0 1px 0 rgba(255,255,255,.12);color:var(--lcdink);text-shadow:0 0 6px rgba(158,240,176,.5)}
@@ -69,7 +69,7 @@ a{color:var(--pink)}
 .lcd span{display:-webkit-box;margin-top:3px;font:600 11px/1.3 var(--f-mono);letter-spacing:.02em;color:#b9f0c4;-webkit-line-clamp:2;-webkit-box-orient:vertical;overflow:hidden}
 
 /* the checks: three LEDs set in the body under the viewfinder, embossed labels */
-#checks{position:absolute;left:124px;right:10px;top:calc(var(--fb,60vh) + 14px);display:grid;gap:4px;align-content:start}
+#checks{position:absolute;left:102px;right:10px;top:calc(var(--fb,60vh) + 12px);display:grid;gap:4px;align-content:start}
 .ck{display:flex;align-items:flex-start;gap:8px;font:700 10.5px/1.3 var(--f-mono);letter-spacing:.04em;text-transform:uppercase;color:#7c7786;text-shadow:0 1px 0 rgba(0,0,0,.8),0 -1px 0 rgba(255,255,255,.06);padding:4px 0;transition:color .2s}
 .ck i{width:13px;height:13px;border-radius:50%;margin-top:0;background:radial-gradient(circle at 35% 35%,#3a3842,#17161c);box-shadow:inset 0 1px 2px rgba(0,0,0,.9),0 1px 0 rgba(255,255,255,.1);transition:background .2s,box-shadow .2s;flex:none}
 .ck.ok{color:#cfeed3}
@@ -110,11 +110,11 @@ a{color:var(--pink)}
 .ghost:active{transform:translateY(2px);box-shadow:0 1px 0 rgba(255,255,255,.15),0 1px 0 #0b0a0e}
 
 /* the hint: a print taped to the body under the glass, beside the lamps; tap it and it lifts up big over the viewfinder */
-#hint{position:absolute;left:12px;top:calc(var(--fb,60vh) + 14px);width:100px;pointer-events:auto;cursor:pointer}
-.hintbox{position:relative;width:100px;background:var(--paper);padding:5px 5px 7px;transform:rotate(-1.5deg);box-shadow:0 8px 18px rgba(0,0,0,.6);transition:transform .2s}
+#hint{position:absolute;left:12px;top:calc(var(--fb,60vh) + 12px);width:78px;pointer-events:auto;cursor:pointer}
+.hintbox{position:relative;width:78px;background:var(--paper);padding:4px 4px 5px;transform:rotate(-1.5deg);box-shadow:0 8px 18px rgba(0,0,0,.6);transition:transform .2s}
 .hintbox::before{content:"";position:absolute;left:50%;top:-8px;width:46px;height:15px;transform:translateX(-50%) rotate(-4deg);background:rgba(255,236,170,.6);box-shadow:0 1px 2px rgba(0,0,0,.15)}
-.hintbox canvas{display:block;width:90px;height:112px;background:#111}
-.hintbox p{margin:4px 0 0;font:900 italic 9.5px/1 var(--f-display);letter-spacing:.02em;text-transform:uppercase;color:#1a1921;white-space:nowrap}
+.hintbox canvas{display:block;width:70px;height:88px;background:#111}
+.hintbox p{margin:3px 0 0;font:900 italic 7.5px/1 var(--f-display);letter-spacing:.02em;text-transform:uppercase;color:#1a1921;white-space:nowrap}
 #hint-x{display:none;position:absolute;right:-12px;top:-12px;width:30px;height:30px;border:0;border-radius:50%;background:#1a1921;color:#fff;font:700 18px/30px var(--f-mono);box-shadow:0 2px 6px rgba(0,0,0,.6)}
 #hint.big{position:fixed;left:50%;top:calc(var(--ft,120px) + (var(--fb,60vh) - var(--ft,120px)) / 2);width:auto;transform:translate(-50%,-50%);z-index:7}
 #hint.big .hintbox{width:min(76vw,264px);padding:8px 8px 10px;transform:rotate(1deg);box-shadow:0 20px 40px rgba(0,0,0,.8),0 0 0 1px rgba(255,255,255,.1)}
@@ -142,9 +142,9 @@ html.short #checks{left:10px}
 .scr{position:fixed;inset:0;z-index:10;display:flex;flex-direction:column;padding:calc(var(--sat) + 12px) 16px calc(var(--sab) + 16px);overflow:auto;touch-action:pan-y;
   background:radial-gradient(140% 60% at var(--lx) -10%,rgba(255,255,255,.10),rgba(255,255,255,0) 60%),radial-gradient(rgba(255,255,255,.035) 1px,transparent 1.2px) 0 0/4px 4px,linear-gradient(180deg,var(--body-2),var(--body) 30%,#141218 100%)}
 /* the screens that keep the diorama in view punch the viewfinder out of the body and seat it in a bezel */
-.scr.window{overflow:hidden;-webkit-mask:linear-gradient(#000 0 0) 0 0/100% calc(var(--ft,120px) - 8px) no-repeat,linear-gradient(#000 0 0) 0 100%/100% calc(100% - var(--fb,60vh) - 8px) no-repeat,linear-gradient(#000 0 0) 0 var(--ft,120px)/6px 100% no-repeat,linear-gradient(#000 0 0) 100% var(--ft,120px)/6px 100% no-repeat;
-  mask:linear-gradient(#000 0 0) 0 0/100% calc(var(--ft,120px) - 8px) no-repeat,linear-gradient(#000 0 0) 0 100%/100% calc(100% - var(--fb,60vh) - 8px) no-repeat,linear-gradient(#000 0 0) 0 var(--ft,120px)/6px 100% no-repeat,linear-gradient(#000 0 0) 100% var(--ft,120px)/6px 100% no-repeat}
-.vfb{position:fixed;left:0;right:0;top:calc(var(--ft,120px) - 8px);height:calc(var(--fb,60vh) - var(--ft,120px) + 16px);z-index:11;pointer-events:none;border-radius:8px;box-shadow:inset 0 0 0 4px #0b0a0e,inset 0 0 0 6px #3b3844,inset 0 0 0 7px #121117,0 0 0 1px rgba(255,255,255,.08)}
+.scr.window{overflow:hidden;-webkit-mask:linear-gradient(#000 0 0) 0 0/100% calc(var(--ft,120px) - 8px) no-repeat,linear-gradient(#000 0 0) 0 100%/100% calc(100% - var(--fb,60vh) - 8px) no-repeat,linear-gradient(#000 0 0) 0 var(--ft,120px)/calc(var(--fl,12px) - 6px) 100% no-repeat,linear-gradient(#000 0 0) 100% var(--ft,120px)/calc(100% - var(--fl,12px) - var(--fw,100%) - 6px) 100% no-repeat;
+  mask:linear-gradient(#000 0 0) 0 0/100% calc(var(--ft,120px) - 8px) no-repeat,linear-gradient(#000 0 0) 0 100%/100% calc(100% - var(--fb,60vh) - 8px) no-repeat,linear-gradient(#000 0 0) 0 var(--ft,120px)/calc(var(--fl,12px) - 6px) 100% no-repeat,linear-gradient(#000 0 0) 100% var(--ft,120px)/calc(100% - var(--fl,12px) - var(--fw,100%) - 6px) 100% no-repeat}
+.vfb{position:fixed;left:calc(var(--fl,12px) - 8px);width:calc(var(--fw,100%) + 16px);top:calc(var(--ft,120px) - 8px);height:calc(var(--fb,60vh) - var(--ft,120px) + 16px);z-index:11;pointer-events:none;border-radius:8px;box-shadow:inset 0 0 0 4px #0b0a0e,inset 0 0 0 6px #3b3844,inset 0 0 0 7px #121117,0 0 0 1px rgba(255,255,255,.08)}
 .vfb::before{content:"";position:absolute;left:8px;right:8px;top:8px;bottom:8px;box-shadow:inset 0 2px 10px rgba(0,0,0,.9);border-radius:3px}
 .vfsp{display:none}
 .scr.window .ds{position:absolute;left:0;right:0;top:calc(var(--fb,60vh) + 10px);bottom:0;overflow:auto;-webkit-overflow-scrolling:touch;touch-action:pan-y;padding:0 16px calc(var(--sab) + 16px)}
@@ -226,7 +226,7 @@ html.short #checks{left:10px}
 .big b{font:900 italic clamp(64px,22vw,110px)/.85 var(--f-display);color:var(--gold)}
 .big span{font:700 11px/1.5 var(--f-mono);letter-spacing:.14em;text-transform:uppercase;color:var(--muted)}
 @media (min-width:700px){.scr{padding-inline:max(16px,calc(50% - 240px))}.album{grid-template-columns:repeat(4,minmax(0,1fr))}.plate{padding-inline:max(12px,calc(50% - 240px))}#checks{left:max(14px,calc(50% - 236px));right:max(14px,calc(50% - 236px))}#walker{left:max(14px,calc(50% - 236px))}#zoomer{right:max(14px,calc(50% - 236px))}.bottom{padding-inline:max(14px,calc(50% - 236px))}}
-@media (max-height:720px){.edge{width:74px;height:74px;bottom:calc(var(--sab) + 64px)}#shutter{width:80px;height:80px}.seat{bottom:calc(var(--sab) + 58px)}.readout{bottom:calc(var(--sab) + 150px)}.ck{padding:2px 0}}
+@media (max-height:900px){.edge{width:70px;height:70px;bottom:calc(var(--sab) + 60px)}#shutter{width:80px;height:80px}.seat{bottom:calc(var(--sab) + 56px)}.readout{bottom:calc(var(--sab) + 146px)}.ck{padding:2px 0}}
 @media (prefers-reduced-motion:reduce){*{transition:none!important;animation:none!important}}
 </style>
 </head>
@@ -306,6 +306,6 @@ html.short #checks{left:10px}
   <div class="row"><button type="button" class="btn primary" id="v-share"><span>Share</span></button><button type="button" class="btn" id="v-del"><span>Delete</span></button><button type="button" class="btn" id="v-close"><span>Close</span></button></div>
 </div>
 
-<script src="game.js?v=20261015p"></script>
+<script src="game.js?v=20261015q"></script>
 </body>
 </html>

diff --git a/play/sw.js b/play/sw.js
@@ -1,6 +1,6 @@
 /* GET THE SHOT offline worker (10/15, v2): the page, the engine, the backdrop, every flat and cutout cached on install so
    the game plays with no signal. Bump BUILD when anything changes; old caches go on activate. */
-const BUILD = 'gts-20261015p';
+const BUILD = 'gts-20261015q';
 const FLATS = ['backdrop_booth', 'backdrop_coop', 'backdrop_lot', 'proscenium', 'f_ball', 'f_lights', 'f_smoke', 'f_speaker', 'f_booth', 'f_bar', 'f_stool', 'f_wedge', 'f_table', 'f_arch', 'c_drums', 'c_amps', 'c_lamp', 'c_couch', 'c_keg', 'c_cups', 'c_merch', 'c_fan', 'c_door', 'l_pole', 'l_truck', 'l_fence', 'l_car', 'l_dumpster', 'l_cone', 'l_chair', 'l_cooler', 'l_cart'], CAST = ['mars', 'rin', 'lena', 'nyx', 'kuro', 'cinder', 'bala', 'putty'];
 const FILES = ['./', './index.html', './game.js?v=20261015k', './manifest.webmanifest', './icon-192.png', './icon-512.png', '../assets/cathedral/mark.webp', './art/ui/shutter.webp', '../assets/fonts/saira-condensed-700.woff2', '../assets/fonts/saira-condensed-900.woff2', '../assets/fonts/inter-400.woff2', '../assets/fonts/inter-500.woff2', '../assets/fonts/inter-600.woff2', '../assets/fonts/inter-700.woff2', '../assets/fonts/inter-800.woff2', '../assets/fonts/jetbrains-mono-400.woff2', '../assets/fonts/jetbrains-mono-500.woff2', '../assets/fonts/jetbrains-mono-700.woff2']
   .concat(FLATS.map(k => './art/v3/flat/' + k + '.webp')).concat(['./art/v2/oc/meta.json']).concat(CAST.flatMap(k => ['idle', 'peak', 'drink', 'selfie'].map(p => './art/v2/oc/' + k + '_' + p + '.webp')));
